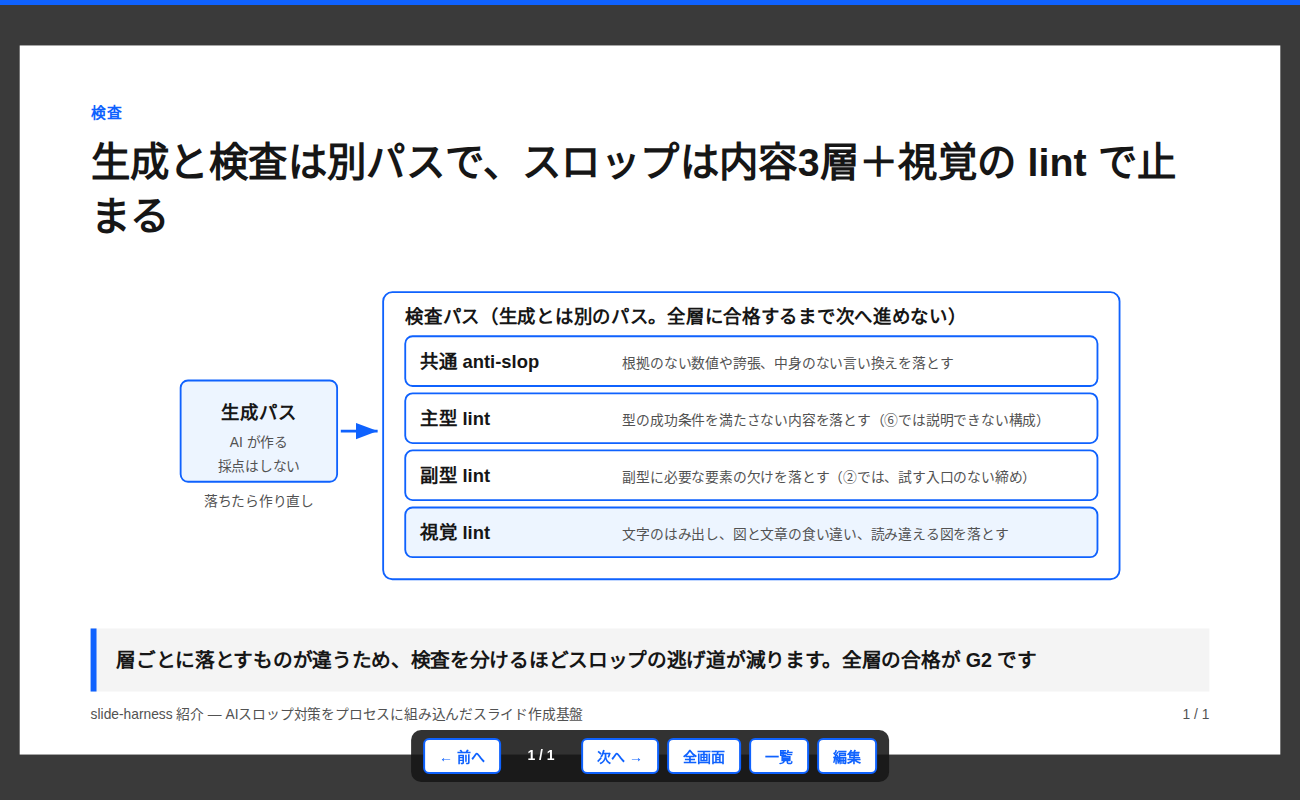
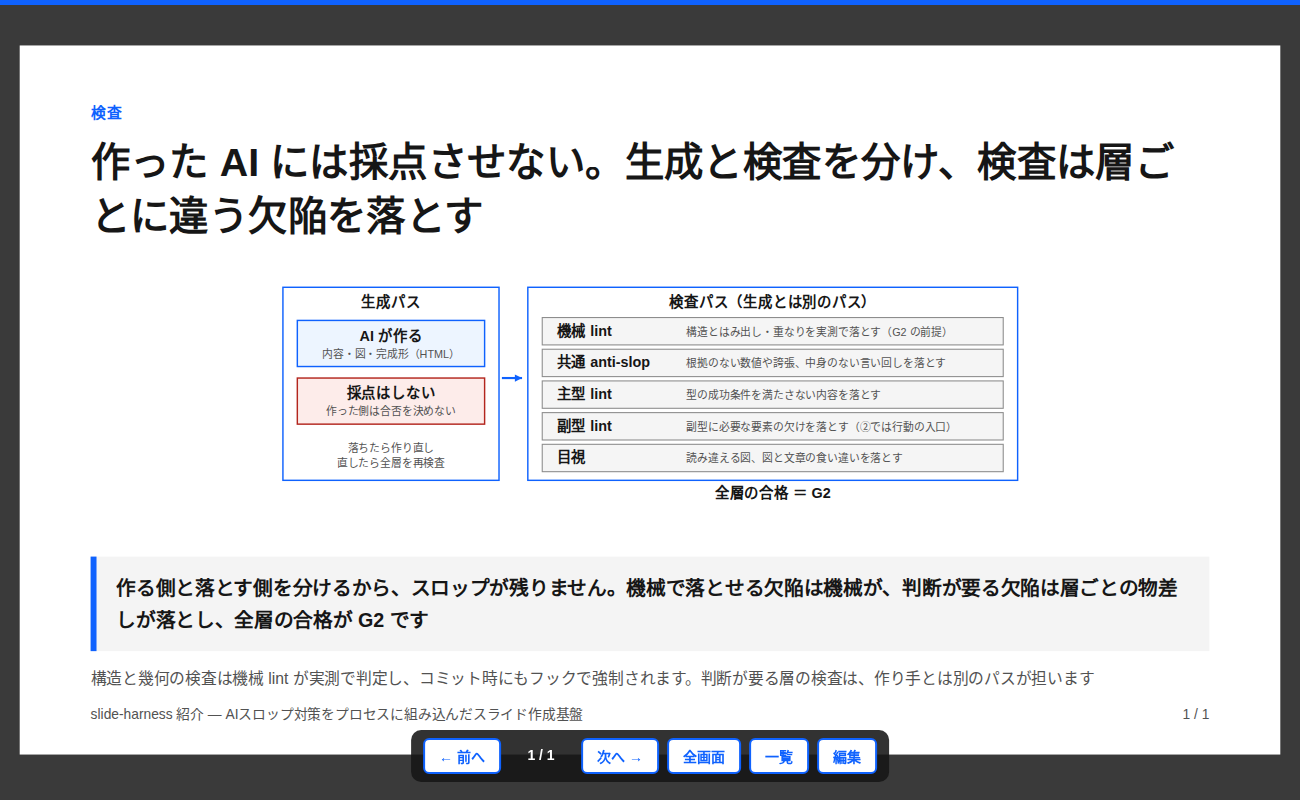
7枚目を作り替え：生成と検査の分離を前面にし、検査の層へ機械lintを反映

Changed region(s): [[0.1231, 0.3438, 0.8615, 0.6875], [0.0615, 0.1562, 0.9231, 0.3125], [0.0615, 0.6875, 0.9231, 0.875]]

diff --git a/works/slide-harness-intro/slides.html b/works/slide-harness-intro/slides.html
@@ -342,37 +342,43 @@ svg text{font-family:var(--font)}
   </section>
   <section class="slide">
     <div class="kicker">検査</div>
-    <h1>生成と検査は別パスで、スロップは内容3層＋視覚の lint で止まる</h1>
+    <h1>作った AI には採点させない。生成と検査を分け、検査は層ごとに違う欠陥を落とす</h1>
     <div class="fig">
-      <svg viewBox="0 0 1100 360" role="img" aria-label="生成と検査は別パスで、スロップは内容3層＋視覚の lint で止まる">
-        <defs>
-          <marker id="ah" markerWidth="10" markerHeight="10" refX="8" refY="3" orient="auto"><path d="M0,0 L8,3 L0,6 Z" fill="#333333"/></marker>
-          <marker id="ahk" markerWidth="10" markerHeight="10" refX="8" refY="3" orient="auto"><path d="M0,0 L8,3 L0,6 Z" fill="#0F62FE"/></marker>
-        </defs>
-<rect class="box-tint" x="40" y="120" width="170" height="110" rx="8"/>
-<text class="lbl" x="125" y="162" text-anchor="middle">生成パス</text>
-<text class="sub" x="125" y="192" text-anchor="middle">AI が作る</text>
-<text class="sub" x="125" y="218" text-anchor="middle">採点はしない</text>
-<text class="sub" x="125" y="256" text-anchor="middle">落ちたら作り直し</text>
-<line class="arrow-key" x1="214" y1="175" x2="254" y2="175" marker-end="url(#ahk)"/>
-<rect class="box" x="260" y="24" width="800" height="312" rx="10"/>
-<text class="lbl" x="284" y="58">検査パス（生成とは別のパス。全層に合格するまで次へ進めない）</text>
-<rect class="box" x="284" y="72" width="752" height="54" rx="8"/>
-<text class="lbl" x="300" y="106">共通 anti-slop</text>
-<text class="sub" x="520" y="106">根拠のない数値や誇張、中身のない言い換えを落とす</text>
-<rect class="box" x="284" y="134" width="752" height="54" rx="8"/>
-<text class="lbl" x="300" y="168">主型 lint</text>
-<text class="sub" x="520" y="168">型の成功条件を満たさない内容を落とす（⑥では説明できない構成）</text>
-<rect class="box" x="284" y="196" width="752" height="54" rx="8"/>
-<text class="lbl" x="300" y="230">副型 lint</text>
-<text class="sub" x="520" y="230">副型に必要な要素の欠けを落とす（②では、試す入口のない締め）</text>
-<rect class="box-tint" x="284" y="258" width="752" height="54" rx="8"/>
-<text class="lbl" x="300" y="292">視覚 lint</text>
-<text class="sub" x="520" y="292">文字のはみ出し、図と文章の食い違い、読み違える図を落とす</text>
-      </svg>
+      <svg viewBox="0 0 1100 360" role="img" aria-label="生成パスと検査パスの図">
+    <rect class="box" x="40" y="24" width="300" height="268"/>
+    <text class="lbl" x="190" y="52" text-anchor="middle">生成パス</text>
+    <rect class="box-tint" x="60" y="70" width="260" height="64"/>
+    <text class="lbl" x="190" y="98" text-anchor="middle">AI が作る</text>
+    <text class="sub" x="190" y="122" text-anchor="middle">内容・図・完成形（HTML）</text>
+    <rect class="box-warn" x="60" y="150" width="260" height="64"/>
+    <text class="lbl" x="190" y="178" text-anchor="middle">採点はしない</text>
+    <text class="sub" x="190" y="202" text-anchor="middle">作った側は合否を決めない</text>
+    <text class="sub" x="190" y="252" text-anchor="middle">落ちたら作り直し</text>
+    <text class="sub" x="190" y="274" text-anchor="middle">直したら全層を再検査</text>
+    <line x1="344" y1="150" x2="372" y2="150" stroke="#0F62FE" stroke-width="3"/>
+    <path d="M372 150 l-10 -5 v10 z" fill="#0F62FE"/>
+    <rect class="box" x="380" y="24" width="680" height="268"/>
+    <text class="lbl" x="720" y="52" text-anchor="middle">検査パス（生成とは別のパス）</text>
+    <rect class="box-gray" x="400" y="66" width="640" height="38"/>
+    <text class="lbl" x="420" y="91">機械 lint</text>
+    <text class="sub" x="600" y="91">構造とはみ出し・重なりを実測で落とす（G2 の前提）</text>
+    <rect class="box-gray" x="400" y="110" width="640" height="38"/>
+    <text class="lbl" x="420" y="135">共通 anti-slop</text>
+    <text class="sub" x="600" y="135">根拠のない数値や誇張、中身のない言い回しを落とす</text>
+    <rect class="box-gray" x="400" y="154" width="640" height="38"/>
+    <text class="lbl" x="420" y="179">主型 lint</text>
+    <text class="sub" x="600" y="179">型の成功条件を満たさない内容を落とす</text>
+    <rect class="box-gray" x="400" y="198" width="640" height="38"/>
+    <text class="lbl" x="420" y="223">副型 lint</text>
+    <text class="sub" x="600" y="223">副型に必要な要素の欠けを落とす（②では行動の入口）</text>
+    <rect class="box-gray" x="400" y="242" width="640" height="38"/>
+    <text class="lbl" x="420" y="267">目視</text>
+    <text class="sub" x="600" y="267">読み違える図、図と文章の食い違いを落とす</text>
+    <text class="lbl" x="720" y="316" text-anchor="middle" fill="#0F62FE">全層の合格 ＝ G2</text>
+    </svg>
     </div>
-    <div class="takeaway">層ごとに落とすものが違うため、検査を分けるほどスロップの逃げ道が減ります。全層の合格が G2 です</div>
-    
+    <div class="takeaway">作る側と落とす側を分けるから、スロップが残りません。機械で落とせる欠陥は機械が、判断が要る欠陥は層ごとの物差しが落とし、全層の合格が G2 です</div>
+    <div class="note">構造と幾何の検査は機械 lint が実測で判定し、コミット時にもフックで強制されます。判断が要る層の検査は、作り手とは別のパスが担います</div>
     <div class="deckname">slide-harness 紹介 — AIスロップ対策をプロセスに組み込んだスライド作成基盤</div>
     <div class="pageno"></div>
   </section>

diff --git a/works/slide-harness-intro/lint-report-v3.md b/works/slide-harness-intro/lint-report-v3.md
@@ -22,6 +22,11 @@ G2 パス（全層）。フェーズ3（検証）へ。
 - 1枚目：下部の注記テキストが枠からはみ出していたため2行に分割（視覚 lint の指摘として処理）。再 lint パス
 - 変更はこの2枚のみ。他のスライドは不変
 
+## 追記18（2026-11-17、表現の変更：7枚目の作り替え）
+- 人間の問い「p7は何を言いたいの？」への診断：主張（生成と検査の分離）が層の一覧に埋もれていたことと、視覚 lint の記述が機械 lint 化と合っていなかったこと。作り替えを人間が承認
+- 7枚目：タイトルを「作った AI には採点させない。生成と検査を分け、検査は層ごとに違う欠陥を落とす」にし、図は生成パスと検査パスを対等な2枚のパネルにした。検査の層は機械 lint（先頭、G2 の前提）・共通 anti-slop・主型・副型・目視の順。要点と注記も分離と機械化に合わせて更新
+- 機械 lint パス（11枚）。なお作り替えの初回で機械 lint 行の説明文のはみ出しを機械 lint 自身が検出し、短縮して解消した
+
 ## 追記17（2026-11-17、機械 lint の確立）
 - 人間指示「効かない時がある lint は lint として成立していない。hooks を使うなど仕組みとして確立する」を受け、機械 lint `tools/lint-slides.py` を実装（構造の一致＋ヘッドレス Chrome 実測による図内テキストのはみ出し・重なり検出）。pre-commit フックでコミット時に強制する
 - 初回実行で本デッキの実在のはみ出し2件を検出して修正した：1枚目「検査と検証（最終の承認）」（文言短縮）、4枚目「② ピッチ／招請（この資料の副型）」（右列を拡大）
